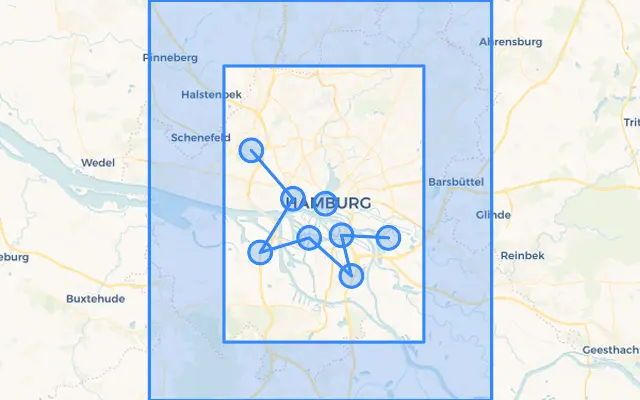
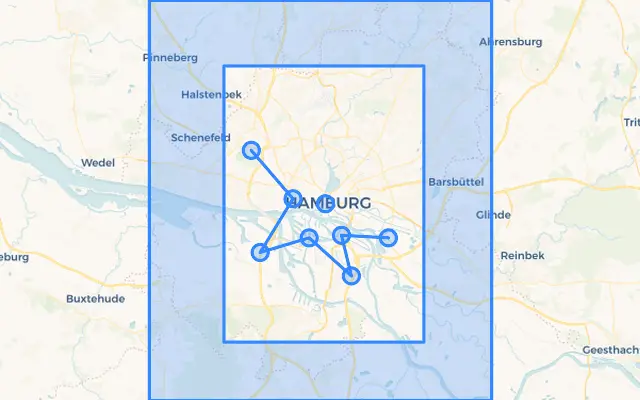
Bugfix. Drawing circle with Imagick is now with correct size

diff --git a/src/imagefactory.php b/src/imagefactory.php
@@ -325,7 +325,7 @@ class ImagickCanvas implements Canvas
 		{
 			$x = $point->x;
 			$y = $point->y;
-			$drawing->circle($x, $y, $x + $radius, $y + $radius);
+			$drawing->circle($x, $y, $x + $radius, $y);
 		}
 	}
 
